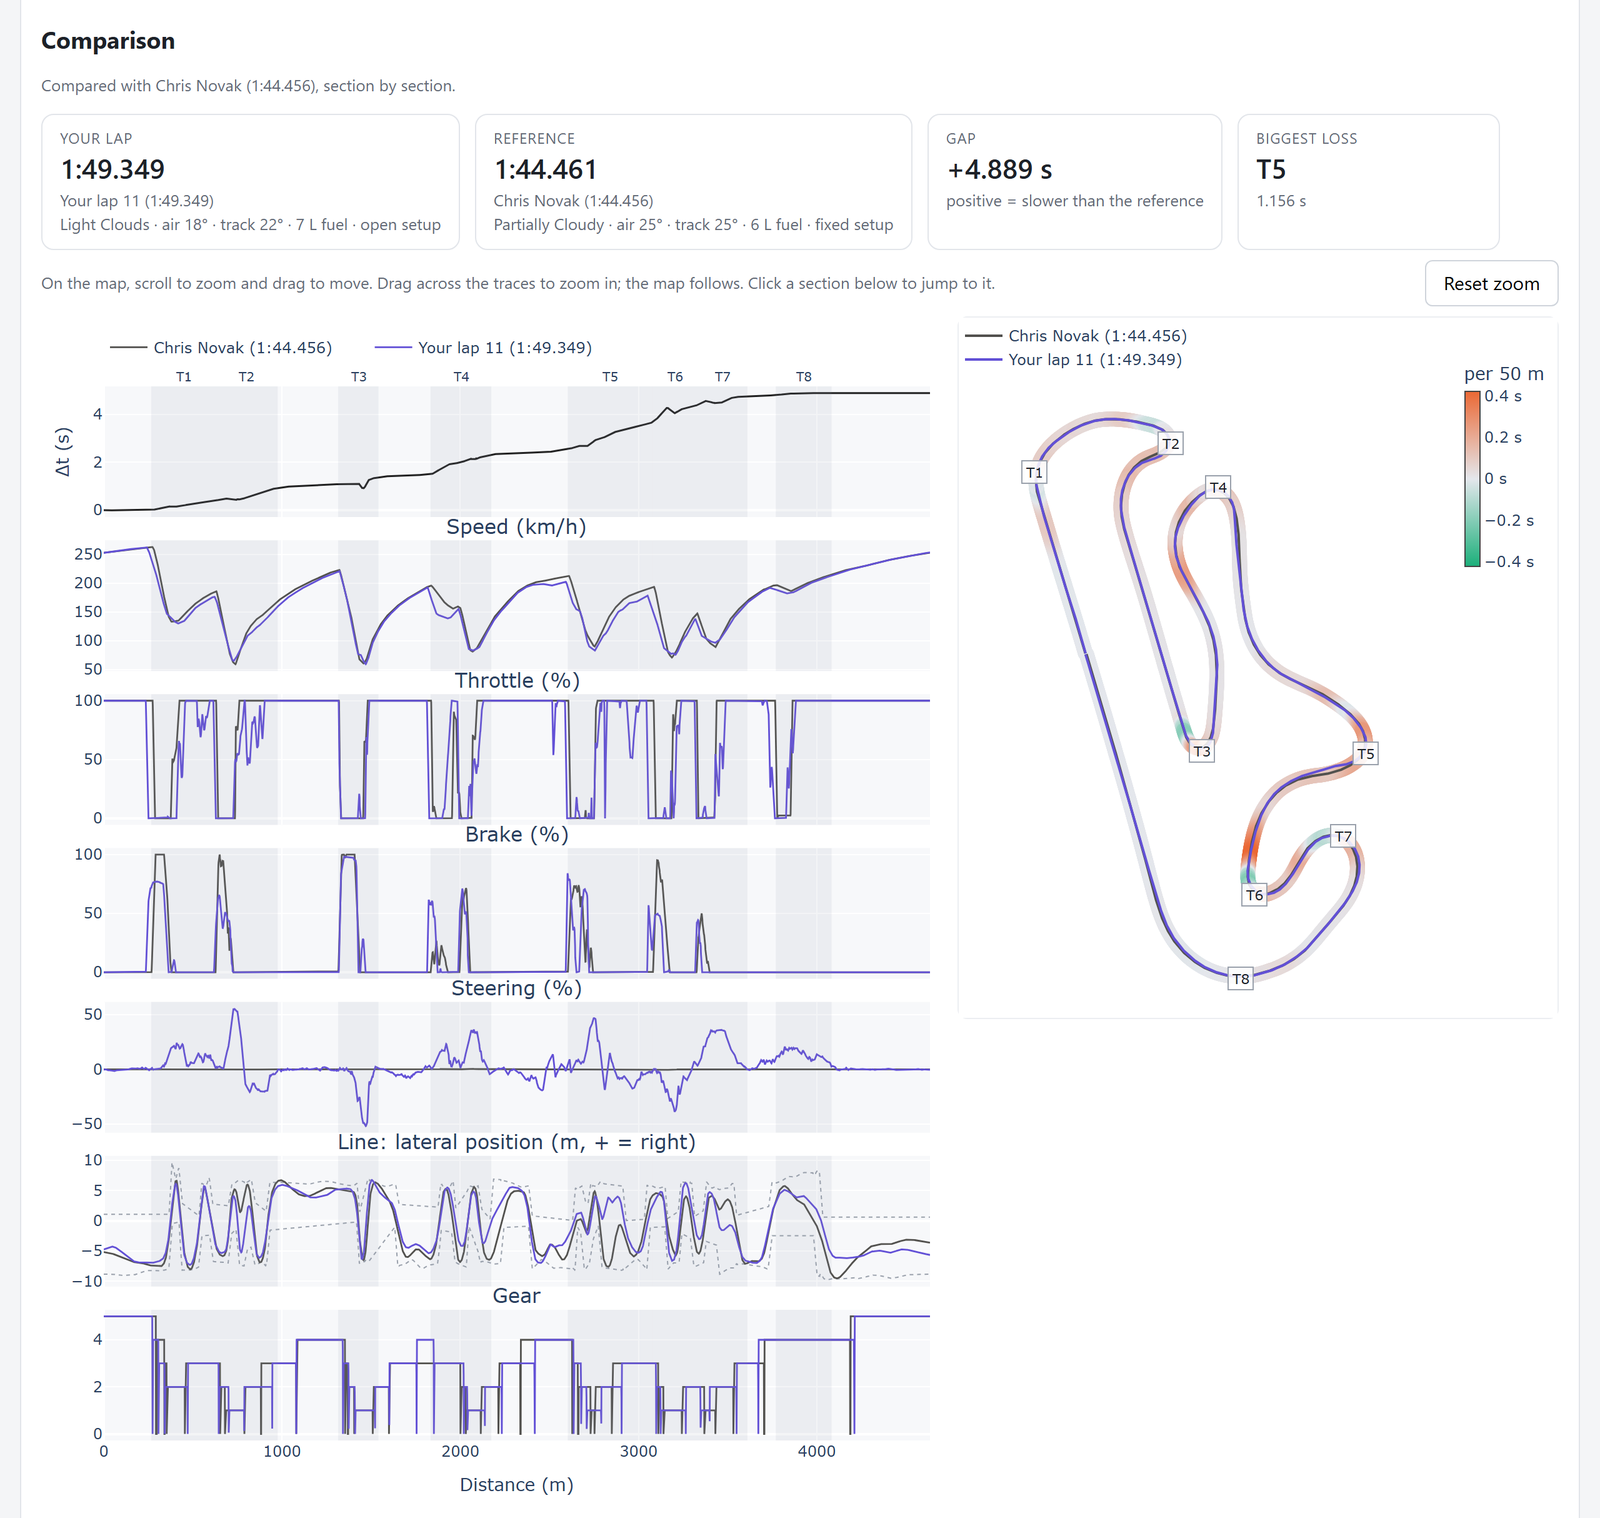
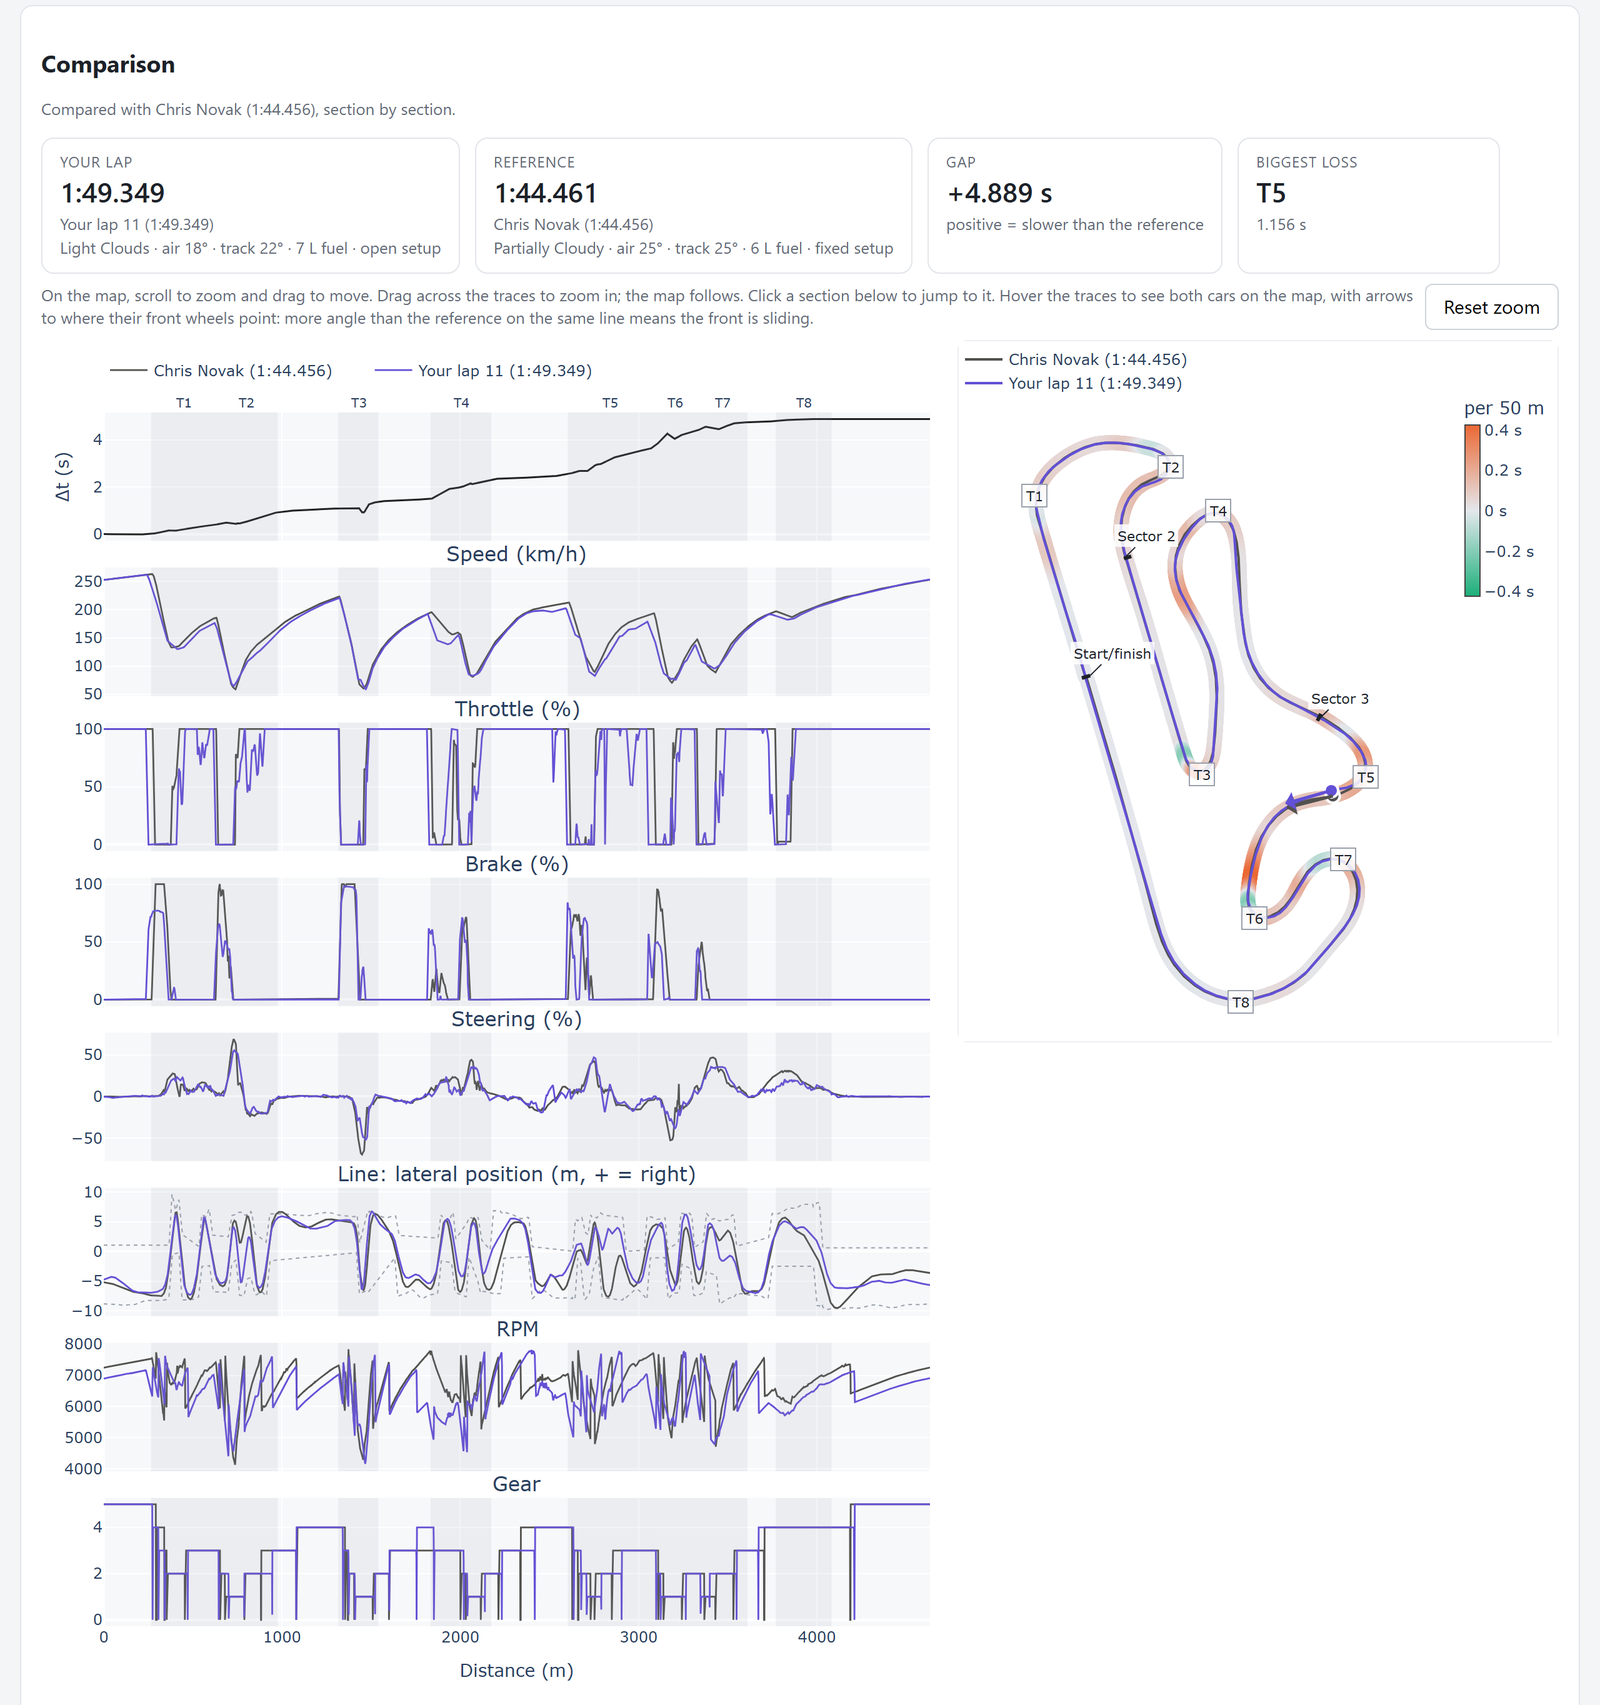
README: new screenshots, and one of the setup comparison
Retaken from the app as it is now (RPM, start/finish and sectors on the map,
both cars on it with their wheel arrows, the reference's real steering), with
made-up names for both drivers as before. A new one shows the setup
comparison.

diff --git a/README.md b/README.md
@@ -8,7 +8,7 @@ laps and a lap to compare against (from the online leaderboard, or your own),
 and it shows where you lose time and why, with traces and a track map.
 Status: early, but usable.
 
-![Comparing a lap with the leaderboard's fastest: time gap, speed, pedals, steering, line and gear by distance, next to a track map coloured by where time is lost](docs/images/comparison.png)
+![Comparing a lap with the leaderboard's fastest: time gap, speed, pedals, steering, line, RPM and gear by distance, next to a track map with the start/finish line and sectors, coloured by where time is lost, with both cars on it](docs/images/comparison.png)
 
 ## Getting started (Windows)
 
@@ -40,7 +40,8 @@ Status: early, but usable.
 The comparison shows traces (time gap, speed, pedals, steering, line, RPM, gear)
 next to a track map with both driving lines, the track edges, the start/finish
 line and the sectors. Hover the
-traces to see both cars on the map; drag across the traces, or click one of
+traces to see both cars on the map, each with an arrow to where its front
+wheels point; drag across the traces, or click one of
 the "where you lose time" sections, to zoom the map to that stretch. Scroll on
 the map to zoom, drag to move.
 
@@ -52,6 +53,8 @@ lost, with what to change in each:
 **Setup** lists the settings where the other laps' car setups differ from
 yours (wing, tyre pressures, springs, brake balance and so on), with every
 setting folded away below.
+
+![The settings where the reference lap's setup differs from yours, such as ABS map, brake balance and brake ducts](docs/images/setup.png)
 
 ### Online leaderboard
 
